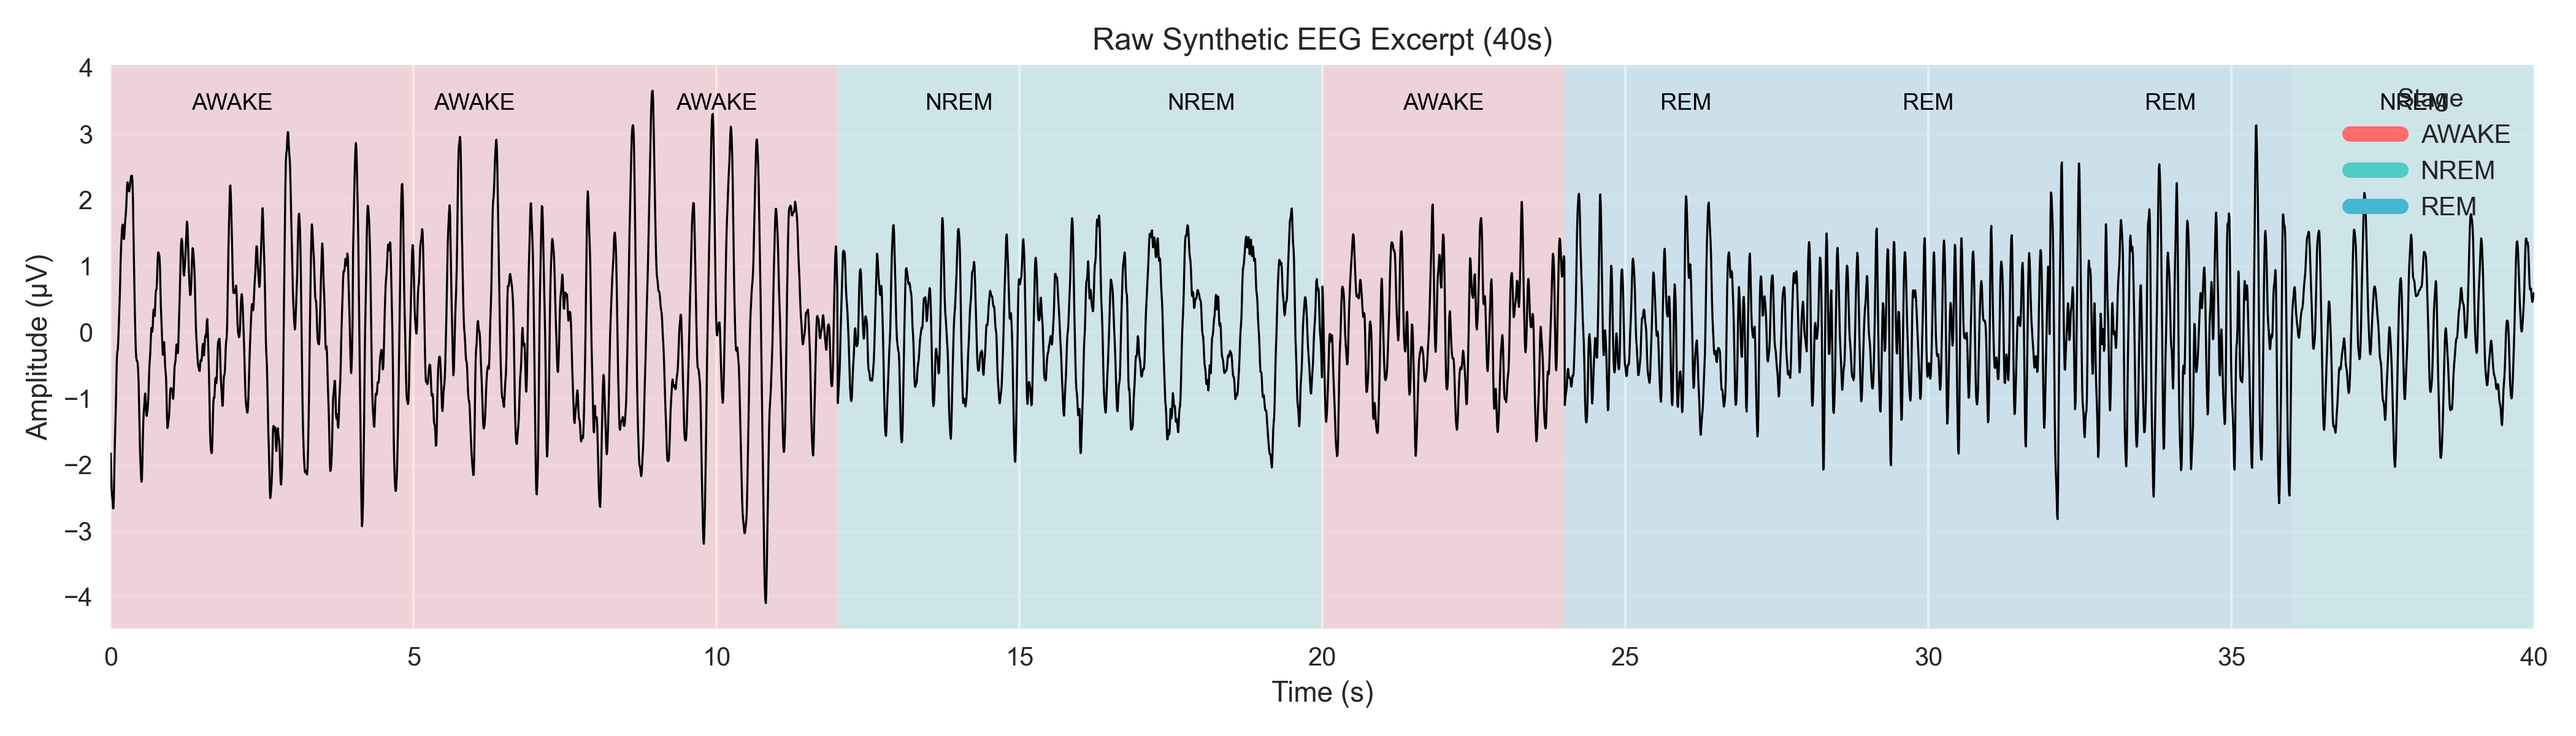
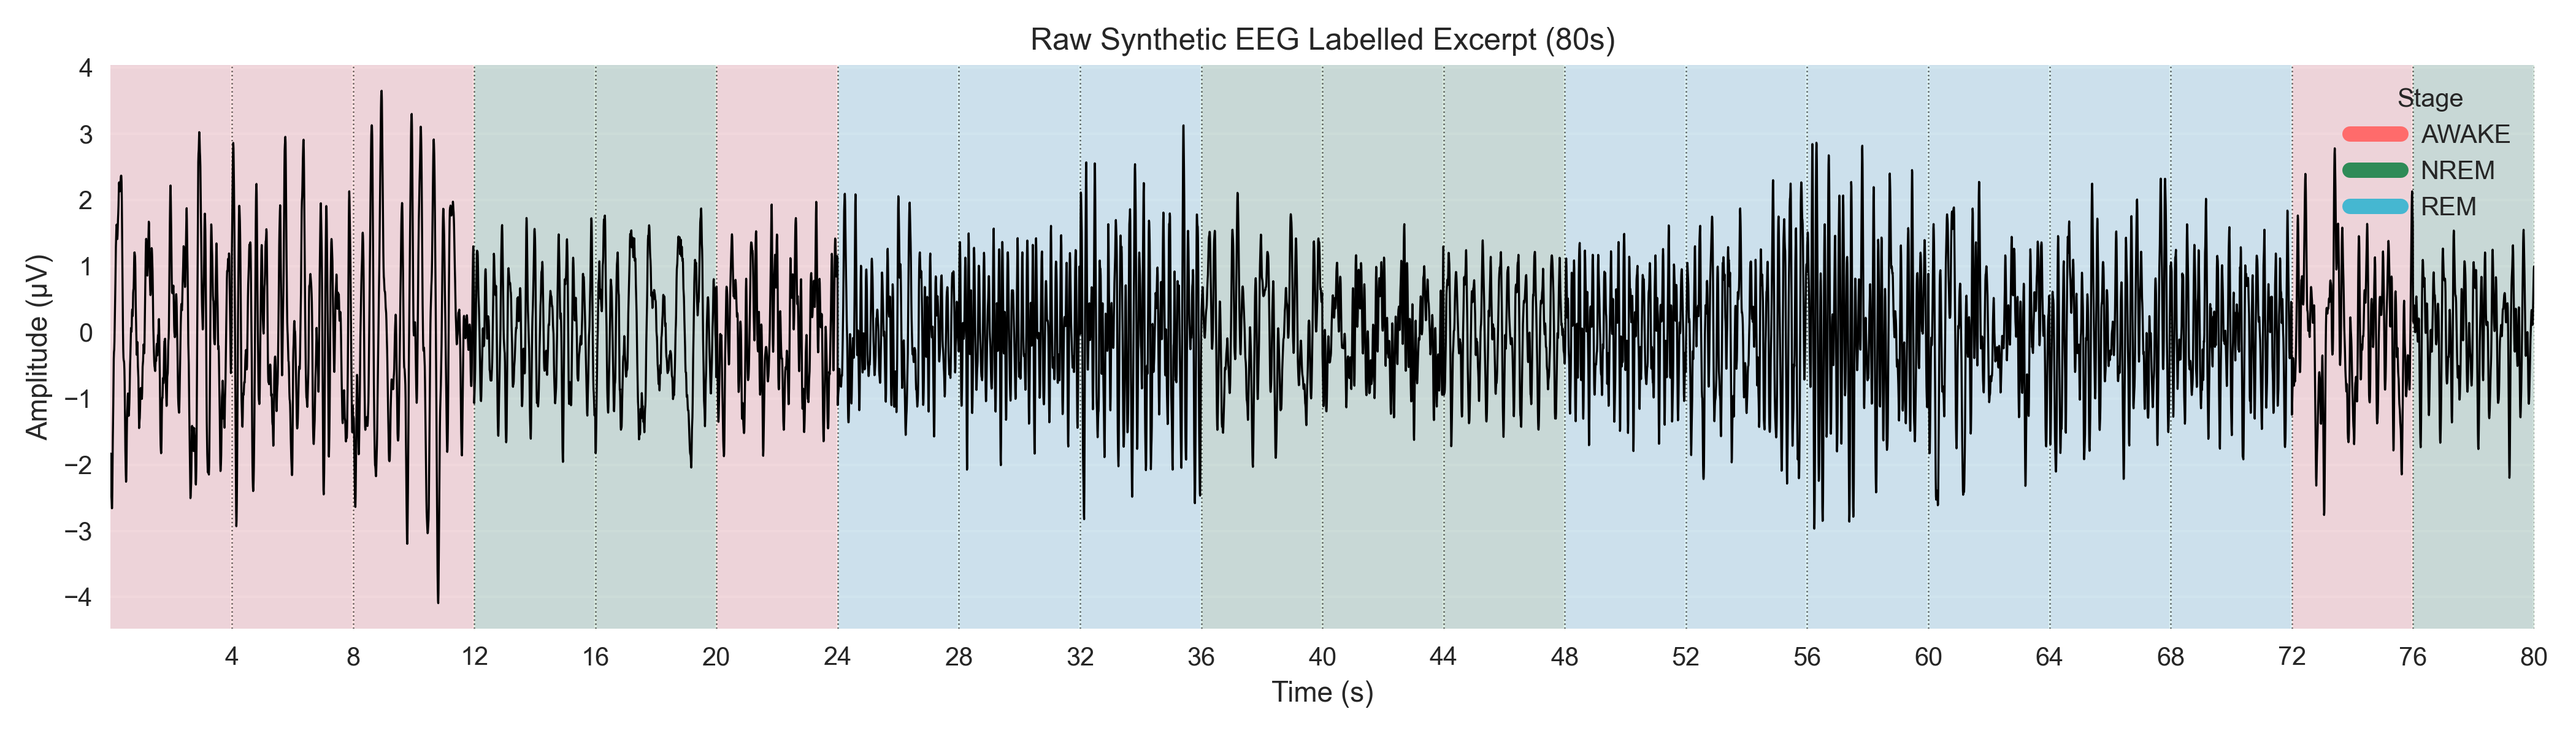
Add raw EEG plotting functions and update NREM color for better contrast

diff --git a/scripts/synthetic_data_exploration/stage_analysis.py b/scripts/synthetic_data_exploration/stage_analysis.py
@@ -239,7 +239,7 @@ def plot_episode_lengths(labels: np.ndarray, stages: list[str], out_dir: Path, e
 
 
 def plot_raw_eeg(eeg: np.ndarray, fs: int, stages: list[str], labels: np.ndarray, out_dir: Path,
-                 seconds: int = 40, show_labels: bool = True):
+                 seconds: int = 80, epoch_len_s: float | int = 4, show_labels: bool = True):
     """Plot a raw EEG excerpt with color-coded sleep stage backgrounds.
 
     Parameters
@@ -266,7 +266,7 @@ def plot_raw_eeg(eeg: np.ndarray, fs: int, stages: list[str], labels: np.ndarray
     ax.plot(time, sig, linewidth=0.8, color='black')
     ax.set_xlabel('Time (s)')
     ax.set_ylabel('Amplitude (µV)')
-    ax.set_title(f'Raw Synthetic EEG Excerpt ({seconds}s)')
+    ax.set_title(f'Raw Synthetic EEG Labelled Excerpt ({seconds}s)')
 
     ep_samples = len(eeg) // len(labels) if len(labels) else samples
     epoch_len_s = ep_samples / fs if ep_samples else 0
@@ -296,9 +296,56 @@ def plot_raw_eeg(eeg: np.ndarray, fs: int, stages: list[str], labels: np.ndarray
         ax.legend(handles=handles, loc='upper right', framealpha=0.85, title='Stage')
 
     ax.set_xlim(0, seconds)
+    # Epoch-based x ticks & vertical dotted lines (e.g., 4, 8, 12, ... seconds) if epoch length known
+    if epoch_len_s:
+        # Start ticks at one epoch length (exclude 0 as per request) up to the displayed seconds
+        max_tick = seconds + 1e-9  # numerical stability
+        tick_positions = np.arange(epoch_len_s, max_tick, epoch_len_s)
+        if len(tick_positions):
+            ax.set_xticks(tick_positions)
+            # Optional: ensure clean integer labels when appropriate
+            ax.set_xticklabels([f"{int(t)}" if float(t).is_integer() else f"{t:g}" for t in tick_positions])
+            for xt in tick_positions:
+                ax.axvline(xt, color='k', linestyle=':', linewidth=0.6, alpha=0.6)
     ax.grid(alpha=0.25, axis='y')
     fig.tight_layout()
     fig.savefig(out_dir / 'raw_eeg_excerpt.png', dpi=300)
+
+
+def plot_raw_eeg_clean(eeg: np.ndarray, fs: int, out_dir: Path, seconds: int = 80, epoch_len_s: float | int | None = None):
+    """Plot a raw EEG excerpt without any stage coloring or annotations.
+
+    Parameters
+    ----------
+    eeg : np.ndarray
+        Flattened 1-D EEG signal.
+    fs : int
+        Sampling frequency.
+    out_dir : Path
+        Output directory.
+    seconds : int, default 80
+        Duration to display from the start of the signal.
+    epoch_len_s : float | int | None
+        If provided, sets x-axis ticks every epoch length (e.g. 4 s) starting at that epoch length.
+    """
+    samples = seconds * fs
+    sig = eeg[:samples]
+    time = np.arange(samples) / fs
+    fig, ax = plt.subplots(figsize=(14, 3.5))
+    ax.plot(time, sig, linewidth=0.8, color='black')
+    ax.set_xlabel('Time (s)')
+    ax.set_ylabel('Amplitude (µV)')
+    ax.set_title(f'Raw Synthetic EEG Excerpt({seconds}s)')
+    ax.set_xlim(0, seconds)
+    if epoch_len_s and epoch_len_s > 0:
+        max_tick = seconds + 1e-9
+        tick_positions = np.arange(epoch_len_s, max_tick, epoch_len_s)
+        if len(tick_positions):
+            ax.set_xticks(tick_positions)
+            ax.set_xticklabels([f"{int(t)}" if float(t).is_integer() else f"{t:g}" for t in tick_positions])
+    ax.grid(alpha=0.25, axis='y')
+    fig.tight_layout()
+    fig.savefig(out_dir / 'raw_eeg_clean.png', dpi=300)
 
 
 def main():
@@ -355,7 +402,9 @@ def main():
     plot_transition_matrix(labels, stages, out_dir)
     plot_episode_lengths(labels, stages, out_dir, epoch_length_s)
     flat = eeg_epochs.reshape(-1)
-    plot_raw_eeg(flat, fs, stages, labels, out_dir)
+    plot_raw_eeg(flat, fs, stages, labels, out_dir, seconds=80, epoch_len_s=epoch_length_s, show_labels=False)
+    # Clean raw EEG (no stage backgrounds)
+    plot_raw_eeg_clean(flat, fs, out_dir, seconds=80, epoch_len_s=epoch_length_s)
 
     # Save summary JSON
     summary = {}

diff --git a/scripts/synthetic_data_exploration/helpers.py b/scripts/synthetic_data_exploration/helpers.py
@@ -10,7 +10,8 @@ plt.style.use('seaborn-v0_8')
 
 SYN_SLEEP_STAGE_COLORS = {
     'AWAKE': '#FF6B6B',
-    'NREM': '#4ECDC4',
+    # Changed to a more distinct green to increase contrast vs REM blue
+    'NREM': '#2E8B57',  # SeaGreen
     'REM': '#45B7D1',
 }
 STAGE_ORDER = ['AWAKE', 'NREM', 'REM']
